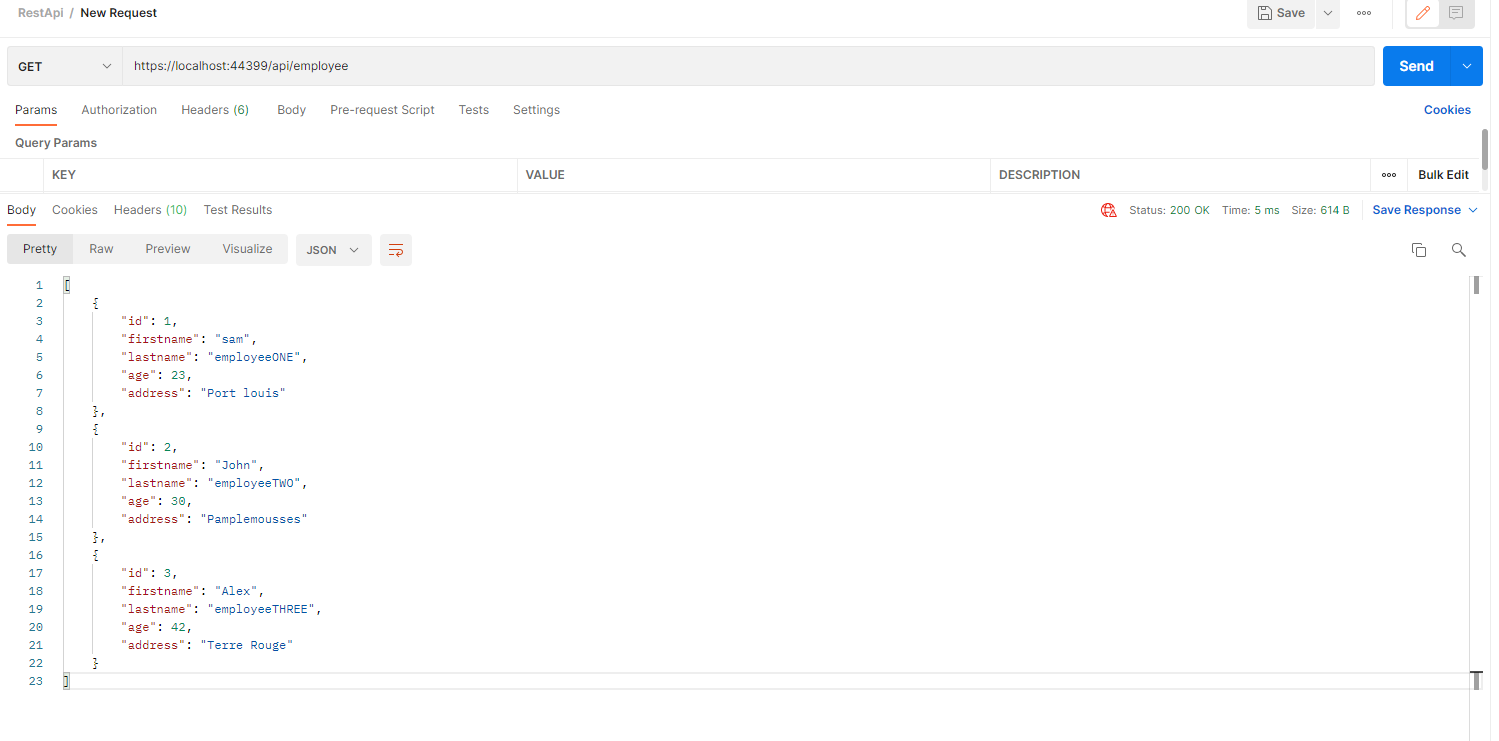
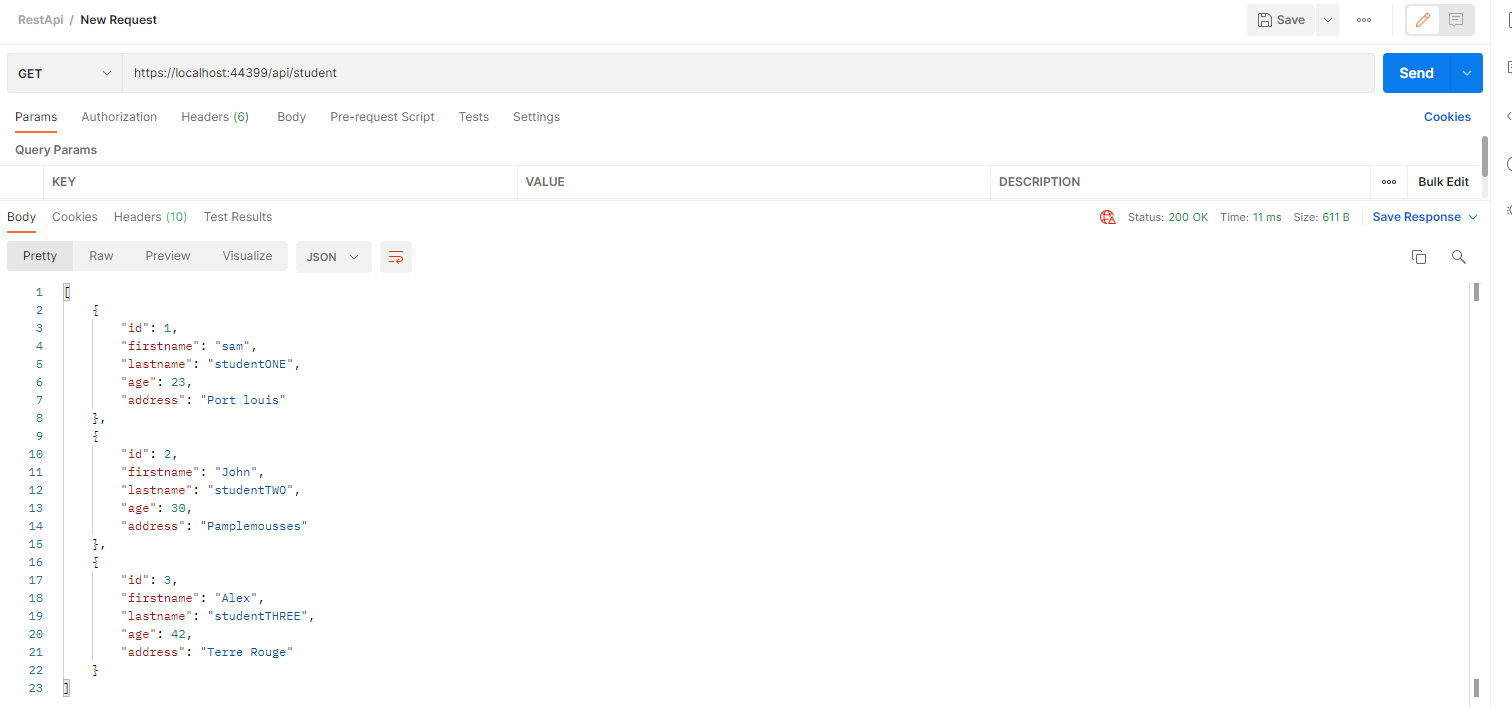
upd

diff --git a/RestApi/Controllers/StudentController.cs b/RestApi/Controllers/StudentController.cs
@@ -4,41 +4,41 @@ using System.Web.Http;
 
 namespace RestApi.Controllers
 {
-    public class EmployeeController : ApiController
+    public class StudentController : ApiController
     {
         [HttpPost]
-        public bool AddEmpDetails()
+        public bool AddStudentDetails()
         {
             return true;
-            //write insert logic  
+            // insert in database
 
         }
         [HttpGet]
-        public EmployeeModel[] Get()
+        public StudentModel[] Get()
         {
-            return new EmployeeModel[]
+            return new StudentModel[]
             {
-                new EmployeeModel
+                new StudentModel
                 {
                     id = 1,
                     firstname = "sam",
-                    lastname = "employeeONE",
+                    lastname = "studentONE",
                     address = "Port louis",
                     age = 23
                 },
-                new EmployeeModel
+                new StudentModel
                 {
                     id = 2,
                     firstname = "John",
-                    lastname = "employeeTWO",
+                    lastname = "studentTWO",
                     address = "Pamplemousses",
                     age = 30
                 },
-                new EmployeeModel
+                new StudentModel
                 {
                     id = 3,
                     firstname = "Alex",
-                    lastname = "employeeTHREE",
+                    lastname = "studentTHREE",
                     address = "Terre Rouge",
                     age = 42
                 }
@@ -47,9 +47,9 @@ namespace RestApi.Controllers
 
 
         [HttpDelete]
-        public string DeleteEmpDetails(string id)
+        public string DeleteStudentDetails(string id)
         {
-            return "Employee details deleted having Id " + id;
+            return "Student details deleted having Id " + id;
 
         }
     }

diff --git a/RestApi/Models/StudentModel.cs b/RestApi/Models/StudentModel.cs
@@ -5,7 +5,7 @@ using System.Web;
 
 namespace RestApi.Models
 {
-    public class EmployeeModel
+    public class StudentModel
     {
         public int id { get; set; }
         public string firstname { get; set; }

diff --git a/README.md b/README.md
@@ -1,6 +1,7 @@
-# RestAPI
-
-
 # GET Request
 
 ![get request](https://github.com/pohurn/RestAPI/blob/main/Screenshots/GetRequest.png)
+
+# DELETE Request
+
+![get request](https://github.com/pohurn/RestAPI/blob/main/Screenshots/DeleteRequest.png)
